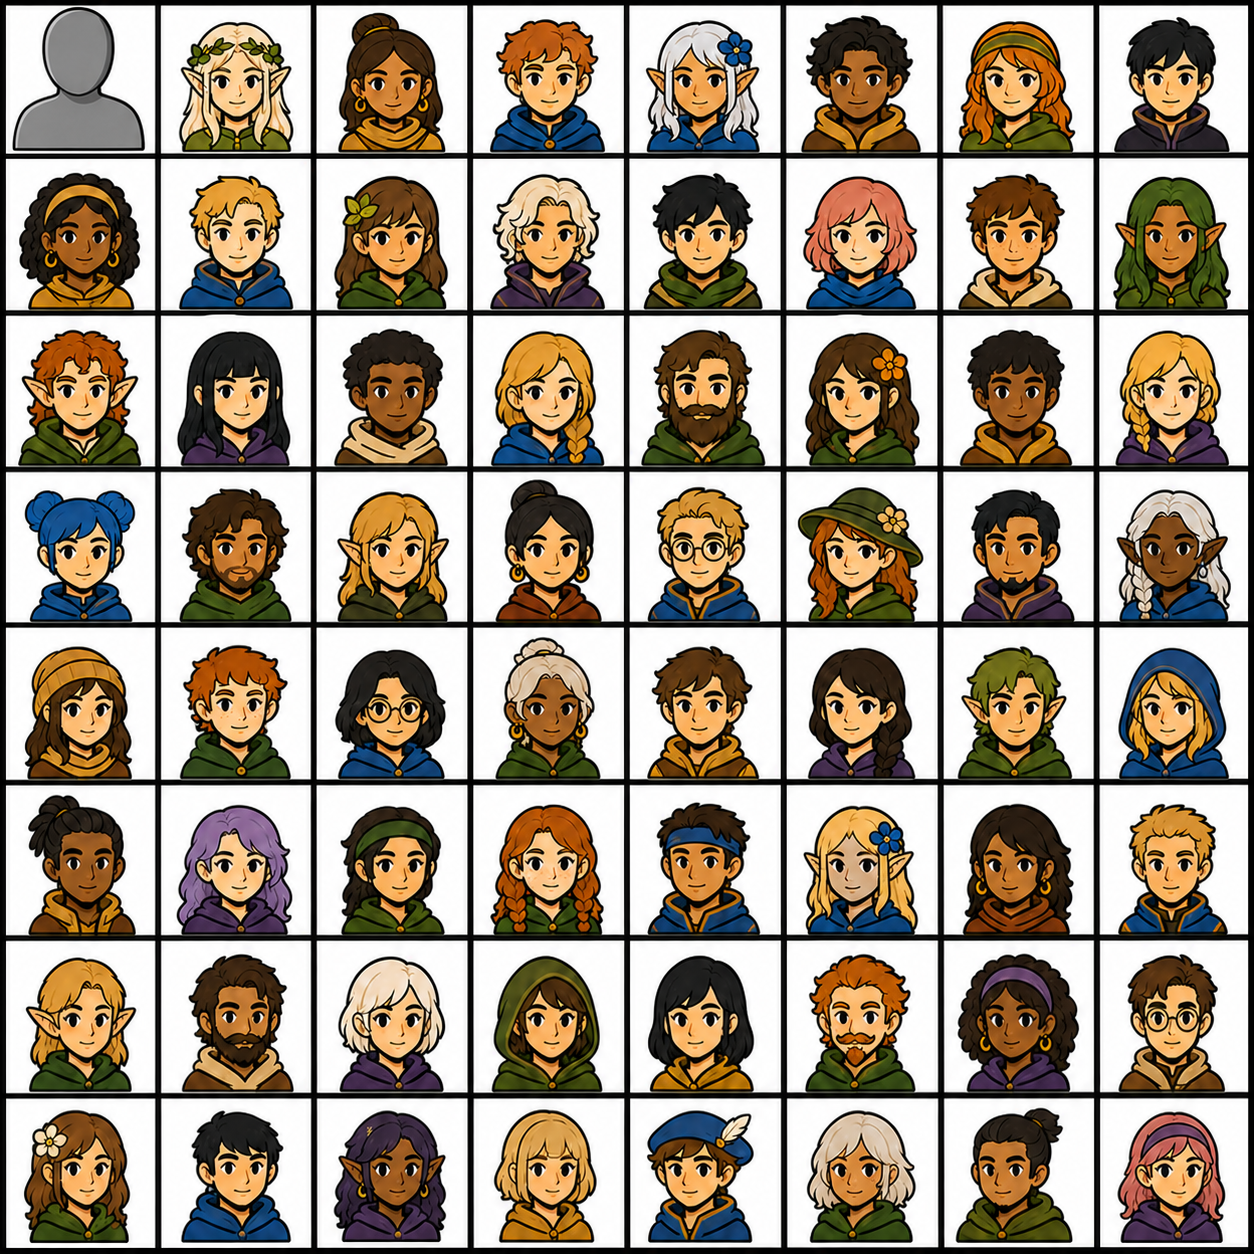
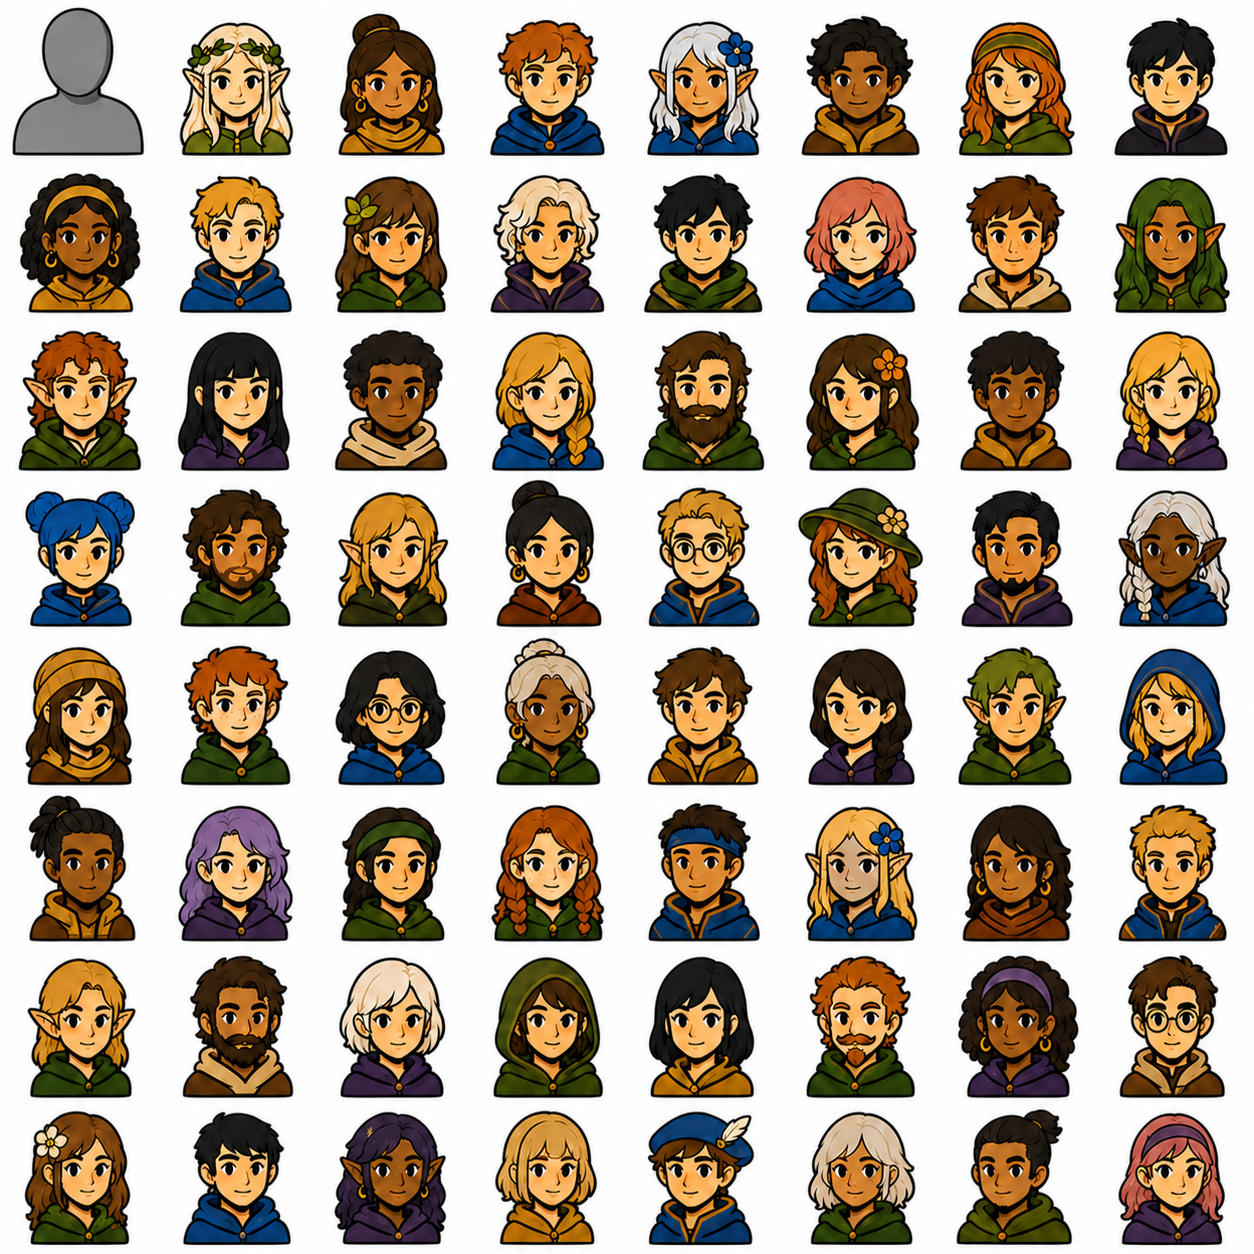
fix: refine portrait and overhead labels

Changed region(s): [[0.0, 0.0, 1.0, 1.0]]

diff --git a/src/main.ts b/src/main.ts
@@ -124,7 +124,7 @@ import {
   type ActorStatus = { x: number; y: number; identity?: string; name: string; nameColor: string; hp: number; maxHp: number; power: number | null; fillColor: string };
   type LeaderboardStat = "power" | "damage" | "health" | "armor" | "regen" | "time";
 
-  const GAME_VERSION = "0.297";
+  const GAME_VERSION = "0.298";
   const SEEN_VERSION_KEY = "wildwood-seen-version-v1";
   const ATTACK_RANGE_VISIBLE_KEY = "wildwood-attack-range-visible-v1";
   const LATENCY_VISIBLE_KEY = "wildwood-latency-visible-v1";
@@ -2637,6 +2637,8 @@ import {
   }
 
   function drawActorStatus({ x, y, identity, name, nameColor, hp, maxHp, power, fillColor }: ActorStatus) {
+    ctx.save();
+    ctx.globalAlpha = 1;
     const centerX = Math.round(x);
     const barW = 94;
     const barH = WORLD_HEALTH_BAR_HEIGHT;
@@ -2661,16 +2663,18 @@ import {
     ctx.font = '900 11px "Arial Rounded MT Bold", "Arial Rounded MT", Arial, sans-serif';
     ctx.textAlign = "center";
     ctx.textBaseline = "middle";
-    outlinedText(hpLabel, centerX, barY + barH / 2, "#ffffff", 1);
+    outlinedText(hpLabel, centerX, barY + barH / 2, "#ffffff", 2);
     ctx.restore();
 
     drawPlayerIdentity(identity, name, power, centerX, barY - 7, nameColor);
+    ctx.restore();
   }
 
   function drawPlayerIdentity(_identity: string | undefined, name: string, power: number | null, centerX: number, bottom: number, color: string) {
     if (!name) return;
     const powerLabel = power === null ? "" : `Power: ${formatCompactNumber(power)}`;
     ctx.save();
+    ctx.globalAlpha = 1;
     ctx.font = '900 14px "Arial Rounded MT Bold", "Arial Rounded MT", Arial, sans-serif';
     ctx.textBaseline = "bottom";
     const nameWidth = ctx.measureText(name).width;
@@ -2681,15 +2685,15 @@ import {
       const playerName = name.slice(developerPrefix.length);
       const prefixWidth = ctx.measureText(developerPrefix).width;
       ctx.textAlign = "left";
-      outlinedText(developerPrefix, textLeft, nameBottom, "#ffd85b", 1);
-      outlinedText(playerName, textLeft + prefixWidth, nameBottom, color, 1);
+      outlinedText(developerPrefix, textLeft, nameBottom, "#ffd85b", 2);
+      outlinedText(playerName, textLeft + prefixWidth, nameBottom, color, 2);
     } else {
       ctx.textAlign = "center";
-      outlinedText(name, centerX, nameBottom, color, 1);
+      outlinedText(name, centerX, nameBottom, color, 2);
     }
     if (powerLabel) {
       ctx.textAlign = "center";
-      outlinedText(powerLabel, centerX, bottom, "#ffe05d", 1);
+      outlinedText(powerLabel, centerX, bottom, "#ffe05d", 2);
     }
     ctx.restore();
   }

diff --git a/public/index.html b/public/index.html
@@ -6,7 +6,7 @@
 <title>Wildwood</title>
 <link rel="icon" href="favicon.ico" sizes="any" />
 <link rel="apple-touch-icon" href="assets/wildwood/wildwood-app-icon.png" />
-<link rel="stylesheet" href="assets/wildwood/game.css?v=0.297" />
+<link rel="stylesheet" href="assets/wildwood/game.css?v=0.298" />
 </head>
 <body>
 <canvas id="game"></canvas>
@@ -120,7 +120,7 @@
       <div id="topMeta">
         <div id="coopStatus">PLAYERS ONLINE: 1</div>
         <div id="latencyStatus" hidden>PING: --</div>
-        <div id="version">v0.297</div>
+        <div id="version">v0.298</div>
       </div>
       <button id="chatSizeToggle" class="chat-size-toggle" type="button" aria-label="Expand chat" aria-expanded="false"><span class="chat-size-icon" aria-hidden="true"></span></button>
     </div>
@@ -180,13 +180,13 @@
     <button id="continueGuestBtn" class="secondary-button" type="button">GUEST LOGIN</button>
     <aside id="updateNotice" class="signin-update-notice" aria-labelledby="updateNoticeTitle" hidden>
       <header>
-        <div><span>WILDWOOD UPDATED</span><strong id="updateNoticeTitle">v0.297</strong></div>
+        <div><span>WILDWOOD UPDATED</span><strong id="updateNoticeTitle">v0.298</strong></div>
         <button id="closeUpdateNoticeBtn" type="button" aria-label="Close update notes">×</button>
       </header>
       <ul id="updateNoticeItems" class="signin-update-history"></ul>
     </aside>
     <p id="accountChoiceDetail" class="loading-detail">SIGN IN OR USE GUEST LOGIN</p>
-    <div id="signinVersion" class="signin-version" aria-label="Wildwood version">v0.297</div>
+    <div id="signinVersion" class="signin-version" aria-label="Wildwood version">v0.298</div>
   </div>
   <div id="newPlayerPanel" class="modal onboarding-modal" hidden>
     <h1 class="wildwood-wordmark-title welcome-wordmark-title" aria-label="Welcome to Wildwood">
@@ -349,7 +349,7 @@
   </div>
 </div>
 
-<script src="assets/wildwood/coop-client.js?v=0.297"></script>
-<script src="assets/wildwood/game.js?v=0.297"></script>
+<script src="assets/wildwood/coop-client.js?v=0.298"></script>
+<script src="assets/wildwood/game.js?v=0.298"></script>
 </body>
 </html>

diff --git a/src/game/runtime/actor-renderer.ts b/src/game/runtime/actor-renderer.ts
@@ -229,12 +229,11 @@ export function createActorRenderer(options: {
 
     const reward = REWARD_DATA[enemy.reward.type];
     const visualRadius = Math.max(enemy.r, spriteHeight / 2);
-    const labelClearance = Math.max(0, Math.min(14, (visualRadius - 18) * .55));
-    const rewardY = y + visualRadius + 10 + labelClearance;
+    const rewardY = y + visualRadius + 10;
     const barW = Math.max(56, Math.min(94, (sprite?.size ?? enemy.r * 2) * 1.26));
     const barH = options.worldHealthBarHeight;
     const barX = Math.round(x - barW / 2);
-    const barY = Math.round(y - spriteHeight / 2 - 17 - labelClearance);
+    const barY = Math.round(y - spriteHeight / 2 - 17);
     const hpRatio = clamp(enemy.hp / enemy.maxHp, 0, 1);
     const hpLabel = `${formatCompactNumber(Math.max(0, Math.ceil(enemy.hp)))} / ${formatCompactNumber(Math.ceil(enemy.maxHp))} HP`;
 
@@ -246,6 +245,7 @@ export function createActorRenderer(options: {
     ctx.fillRect(barX, barY, Math.round(barW * hpRatio), barH);
 
     ctx.save();
+    ctx.globalAlpha = 1;
     ctx.textAlign = "center";
     ctx.textBaseline = "bottom";
     ctx.font = '900 13px "Arial Rounded MT Bold", "Arial Rounded MT", Arial, sans-serif';
@@ -253,7 +253,7 @@ export function createActorRenderer(options: {
 
     ctx.font = '900 11px "Arial Rounded MT Bold", "Arial Rounded MT", Arial, sans-serif';
     ctx.textBaseline = "middle";
-    options.outlinedText(hpLabel, x, barY + barH / 2, "#ffffff", 1);
+    options.outlinedText(hpLabel, x, barY + barH / 2, "#ffffff", 2);
 
     ctx.font = '900 13px "Arial Rounded MT Bold", "Arial Rounded MT", Arial, sans-serif';
     ctx.textBaseline = "top";

diff --git a/src/app/changelog.ts b/src/app/changelog.ts
@@ -1,4 +1,9 @@
 export const RELEASE_NOTES: Record<string, string[]> = {
+  "0.298": [
+    "Profile portrait grid seams were removed; UI frames now provide the clean black outline",
+    "Player and enemy overhead labels are now fully opaque with thicker black outlines",
+    "Large-enemy label spacing was restored to its original compact layout",
+  ],
   "0.297": [
     "Profile portraits now use white backgrounds and black outlines",
     "Profile, chat, and overhead player/enemy names now share the same rounded name font",
